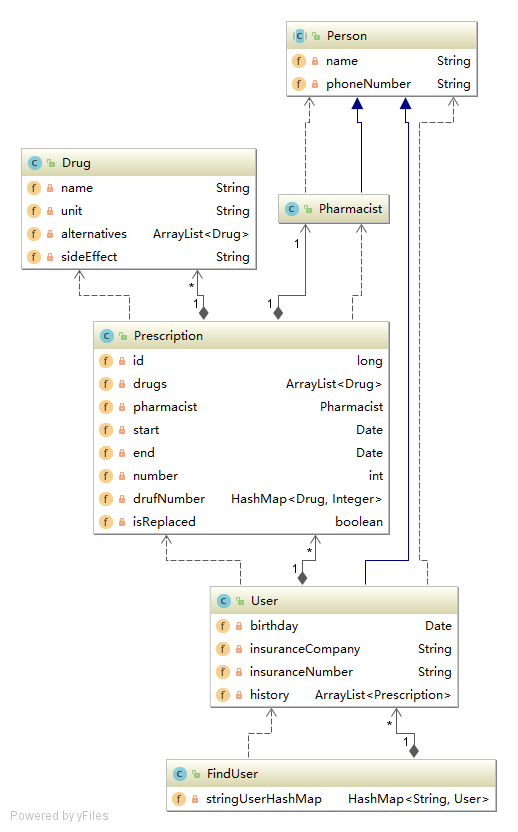
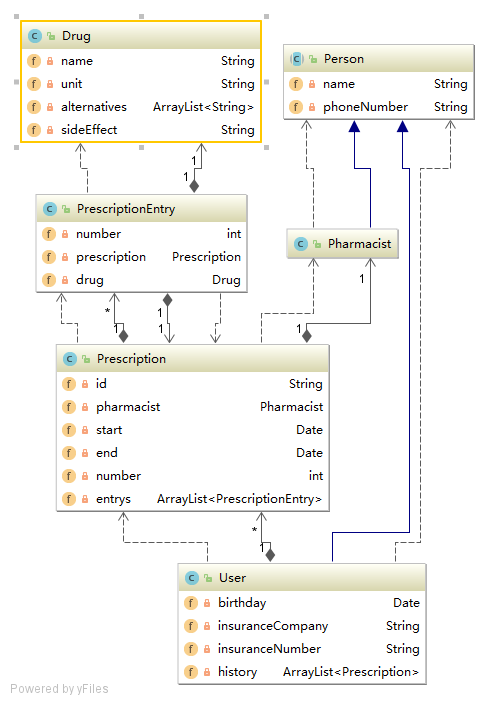
501

Changed region(s): [[0.0303, 0.0, 0.9697, 0.9986], [0.0303, 0.9674, 0.2121, 0.9986]]

diff --git a/README.md b/README.md
@@ -4,19 +4,29 @@
 <br>
 <img src="img/2.JPG">
 </hr>
-<h1>类</h1>
+<h1>包</h1>
 <ul>
-<li>Drug药物</li>
-<li>Person</li>
-<li>Pharmacist药剂师</li>
-<li>Prescription处方</li>
-<li>User用户</li>
-<li>PTS测试“驱动器”</li>
-<li>Utils“工具类”</li>
+<li>dao数据访问层</li>
+<li>pojo实体类</li>
+<li>properties配置文件</li>
+<li>PTS驱动器</li>
+<li>service服务层</li>
+<li>utils工具包</li>
+<li>view表示层</li>
 </ul>
 <h1>类图</h1>
 <br>
 <img src="img/User.PNG">
-<h1>时序图</h1>
+<h1>GUI使用介绍</h1>
 <br>
-<img src="img/PTS时序.JPG">
+<img src="img/gui1.JPG">
+<br>
+查询系统是用来查询信息的，数据库管理系统，用来增删用户，处方，药师，药物。
+<br>
+<img src="img/gui2.JPG">
+<br>
+这是查询系统的界面，为便于使用，已将数据所存的用户电话和药物名在两边显示出来，双击可以显示具体信息。还有三个按钮，功能如按钮所提示。
+<br>
+<img src="img/gui3.JPG">
+<br>
+同样，双击两边列表的内容，会弹出具体信息，增加，删除内容也会在列表体现出来。四个按钮正如提示所示，增加，删除失败或成功都会有提示。
